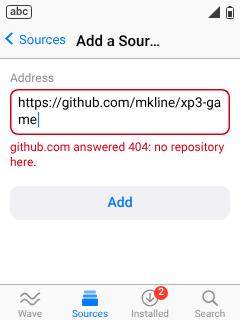
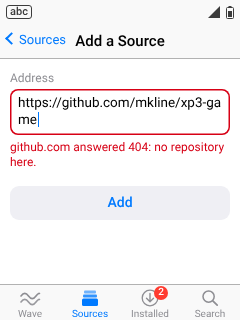
Mockups: centre bar titles between their sides, shorten cut reasons, reshoot

Changed region(s): [[0.3208, 0.0938, 0.7, 0.1562]]

diff --git a/site/mockups/app.html b/site/mockups/app.html
@@ -33,12 +33,26 @@ if (want) {
       group = f.group;
     }
     const k = f.keys;
-    html += `<div class="card" id="${f.id}">${f.html}<h3>${f.title} <code>${f.id}</code></h3><ul class="keys">` +
+    html += `<div class="shot" id="${f.id}">${f.html}<h3>${f.title} <code>${f.id}</code></h3><ul class="keys">` +
       `<li><b>Left/Right</b> ${k.lr}</li><li><b>Up/Down</b> ${k.ud}</li><li><b>OK</b> ${k.ok}</li><li><b>Back</b> ${k.back}</li><li><b>Menu</b> ${k.menu}</li></ul>` +
       (f.note ? `<p class="note">${f.note}</p>` : '') + '</div>';
   }
   root.innerHTML = html + '</div>';
 }
+// A bar's title is centred on the screen and as wide as what is on its
+// sides leaves it, as iOS lays out a navigation bar (and as the app should).
+document.fonts.ready.then(() => {
+  for (const bar of document.querySelectorAll('.bar')) {
+    const title = bar.querySelector('.title');
+    if (!title) continue;
+    let side = 10;
+    const back = bar.querySelector('.back'), l = bar.querySelector('.act.l, .spin'), r = bar.querySelector('.act.r');
+    if (back) { const range = document.createRange(); range.selectNodeContents(back); side = Math.max(side, back.offsetLeft + Math.min(back.offsetWidth, range.getBoundingClientRect().width + 13) + 6); }
+    if (l) side = Math.max(side, l.offsetLeft + l.offsetWidth + 6);
+    if (r) side = Math.max(side, 240 - r.offsetLeft + 6);
+    title.style.left = title.style.right = side + 'px';
+  }
+});
 </script>
 </body>
 </html>

diff --git a/site/mockups/mockups.css b/site/mockups/mockups.css
@@ -33,10 +33,10 @@ body.gallery { margin: 0; padding: 16px 20px 40px; background: #DADBE0; font: 13
 .gallery h2 { font-size: 16px; margin: 28px 0 10px; border-bottom: 1px solid #b9bac0; padding-bottom: 4px; }
 .gallery .intro { max-width: 980px; }
 .gallery .grid { display: flex; flex-wrap: wrap; gap: 22px 22px; }
-.gallery .card { width: 240px; }
-.gallery .card .frame { box-shadow: 0 0 0 1px #9a9ba1, 0 4px 14px rgba(0,0,0,.18); }
-.gallery .card h3 { font-size: 12.5px; margin: 8px 0 3px; }
-.gallery .card h3 code { font-weight: 400; color: #666; font-size: 11px; }
+.gallery .shot { width: 240px; }
+.gallery .shot .frame { box-shadow: 0 0 0 1px #9a9ba1, 0 4px 14px rgba(0,0,0,.18); }
+.gallery .shot h3 { font-size: 12.5px; margin: 8px 0 3px; }
+.gallery .shot h3 code { font-weight: 400; color: #666; font-size: 11px; }
 .gallery .keys { font-size: 11.5px; line-height: 1.35; color: #333; margin: 0; padding: 0; list-style: none; }
 .gallery .keys b { display: inline-block; min-width: 46px; color: #000; }
 .gallery .note { font-size: 11.5px; color: #555; margin: 4px 0 0; }

diff --git a/site/mockups/frames.js b/site/mockups/frames.js
@@ -102,10 +102,13 @@ function bar(b) {
     return s + '</div>';
   }
   // Back's target, named as on iOS; a name too long for its side becomes "Back".
-  if (b.back) s += `<div class="back">${b.back.length > 9 ? 'Back' : b.back}</div>`;
+  const back = b.back && (b.back.length > 9 ? 'Back' : b.back);
+  if (back) s += `<div class="back">${back}</div>`;
   if (b.spin) s += `<div class="spin">${spinner()}</div>`;
   if (b.l) s += `<div class="act l${b.lOn ? ' on' : ''}">${b.l}</div>`;
-  if (b.title) s += `<div class="title">${b.title}</div>`;
+  // The title is centred on the screen, clear of whatever is on its sides.
+  const side = back ? (back.length <= 5 ? 58 : 76) : (b.l || b.r || b.spin ? 62 : 10);
+  if (b.title) s += `<div class="title" style="left:${side}px;right:${side}px">${b.title}</div>`;
   if (b.r) s += `<div class="act r${b.rOn ? ' on' : ''}${b.rOff ? ' off' : ''}">${b.r}</div>`;
   return s + '</div>';
 }

diff --git a/site/mockups/CHECKLIST.md b/site/mockups/CHECKLIST.md
@@ -78,10 +78,14 @@ intended (it scrolls), and is marked "scrolls".
 | error-watchdog-row | yes | row grey | "Turned off" in red |
 
 Result: **all 46 frames pass**. Fixed during the check: back labels too long
-for the bar ("Applic…") now read "Back"; the confirm's plan was 12px too tall
-and its rows are now 42px; a firmware note that wrapped mid-build was
-shortened; the progress rows' ring margin squeezed the names; the toast
-wrapped at half width.
+for the bar ("Applic…") now read "Back"; bar titles are centred on the
+screen and as wide as the bar's sides leave them (computed in `app.html`, as
+the app should), which un-cut "Add a Source" and "What is Wave"; the
+confirm's plan was 12px too tall and its rows are now 42px; a firmware note
+that wrapped mid-build was shortened; the progress rows' ring margin
+squeezed the names; the toast wrapped at half width; a failing source's
+reason and the turned-off mod's line were cut and are now short enough to
+read whole.
 
 ## 2. D-pad paths: every action without touch
 
